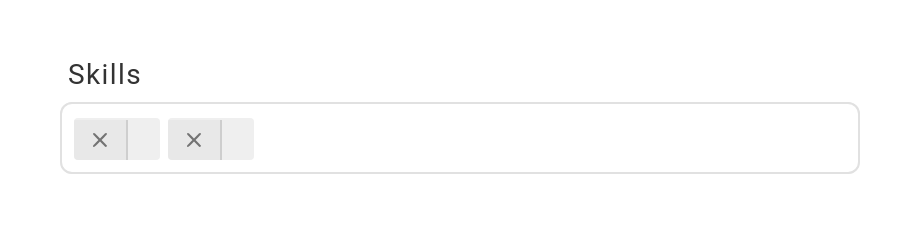
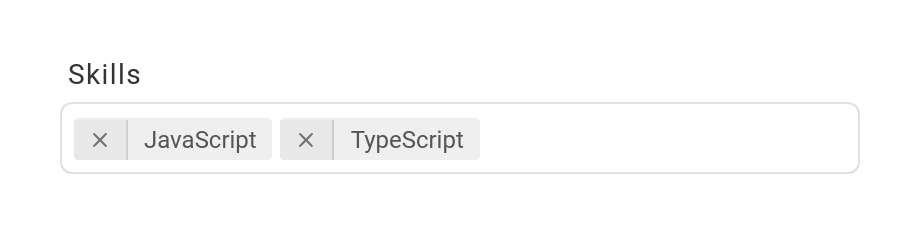
Fix multi select values

Changed region(s): [[0.3043, 0.5385, 0.5174, 0.6581], [0.1522, 0.5385, 0.2739, 0.6581]]

diff --git a/src/form/FieldRenderer.ts b/src/form/FieldRenderer.ts
@@ -211,8 +211,15 @@ export class FieldRenderer {
     // Ensure proper value handling for multi vs single select
     const normalizedValue = (() => {
       if (config.multi) {
-        // Multi-select: ensure we have an array
-        return Array.isArray(value) ? value : value ? [value] : [];
+        // Multi-select: ensure we have an array and convert strings to option objects
+        const valueArray = Array.isArray(value) ? value : value ? [value] : [];
+        return valueArray.map((val) => {
+          if (typeof val === 'string') {
+            // Convert string values to option objects
+            return { name: val, value: val };
+          }
+          return val;
+        });
       } else {
         // Single select: use the value as-is
         return value || '';
